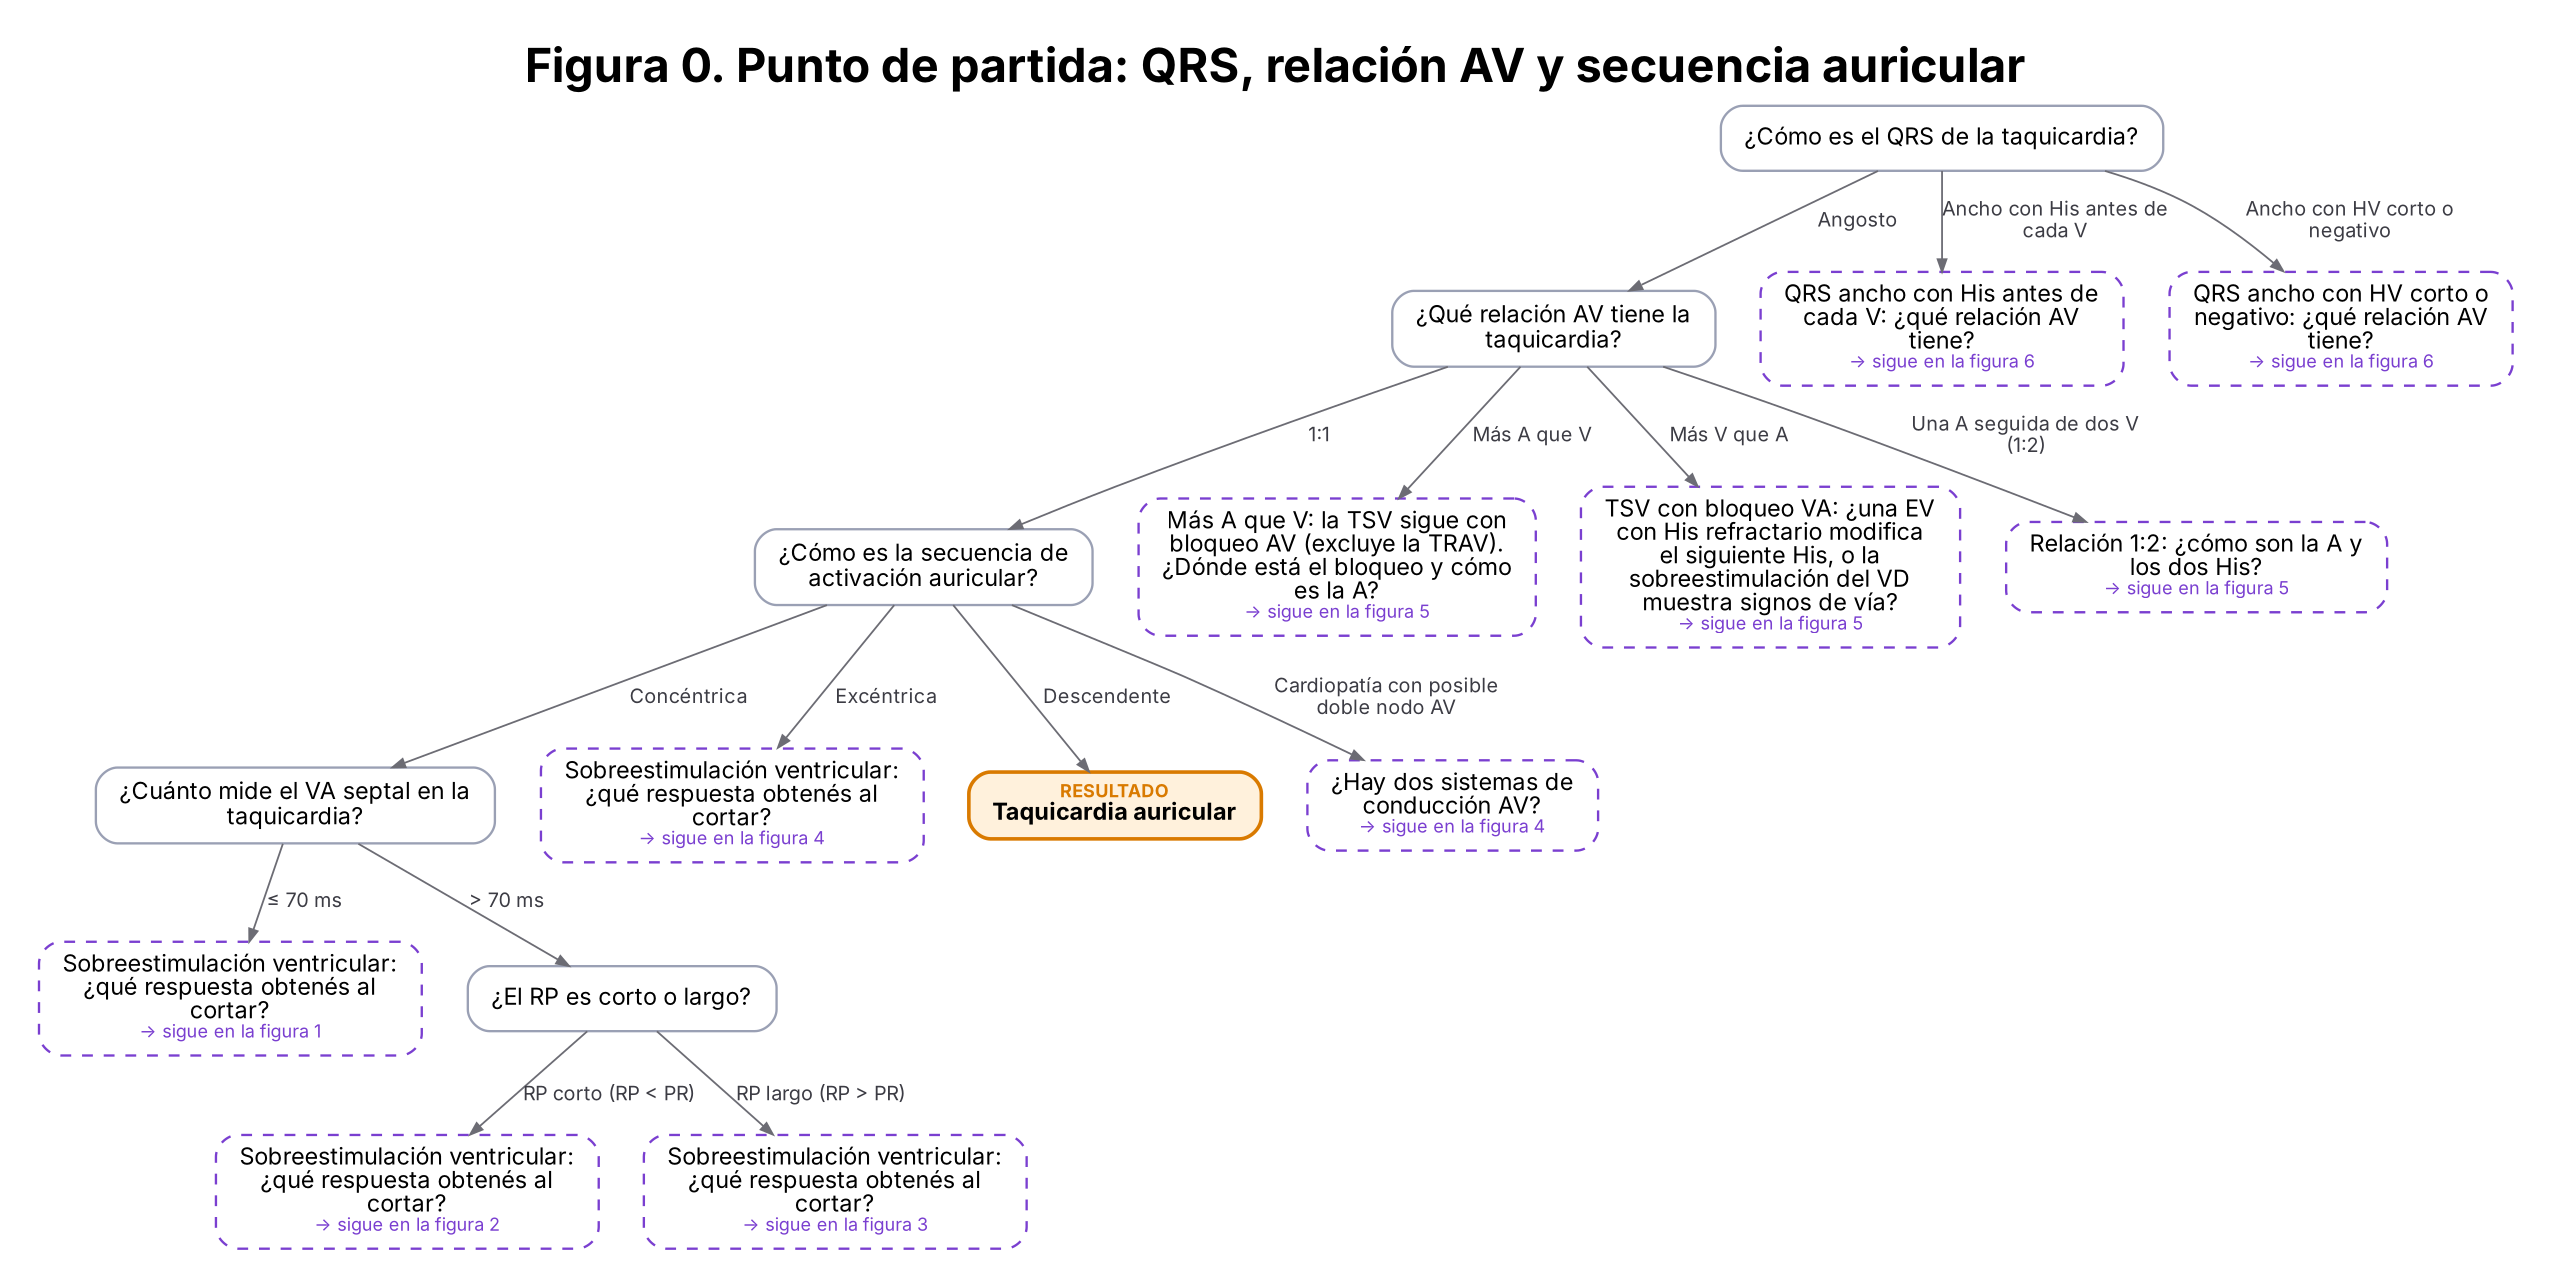
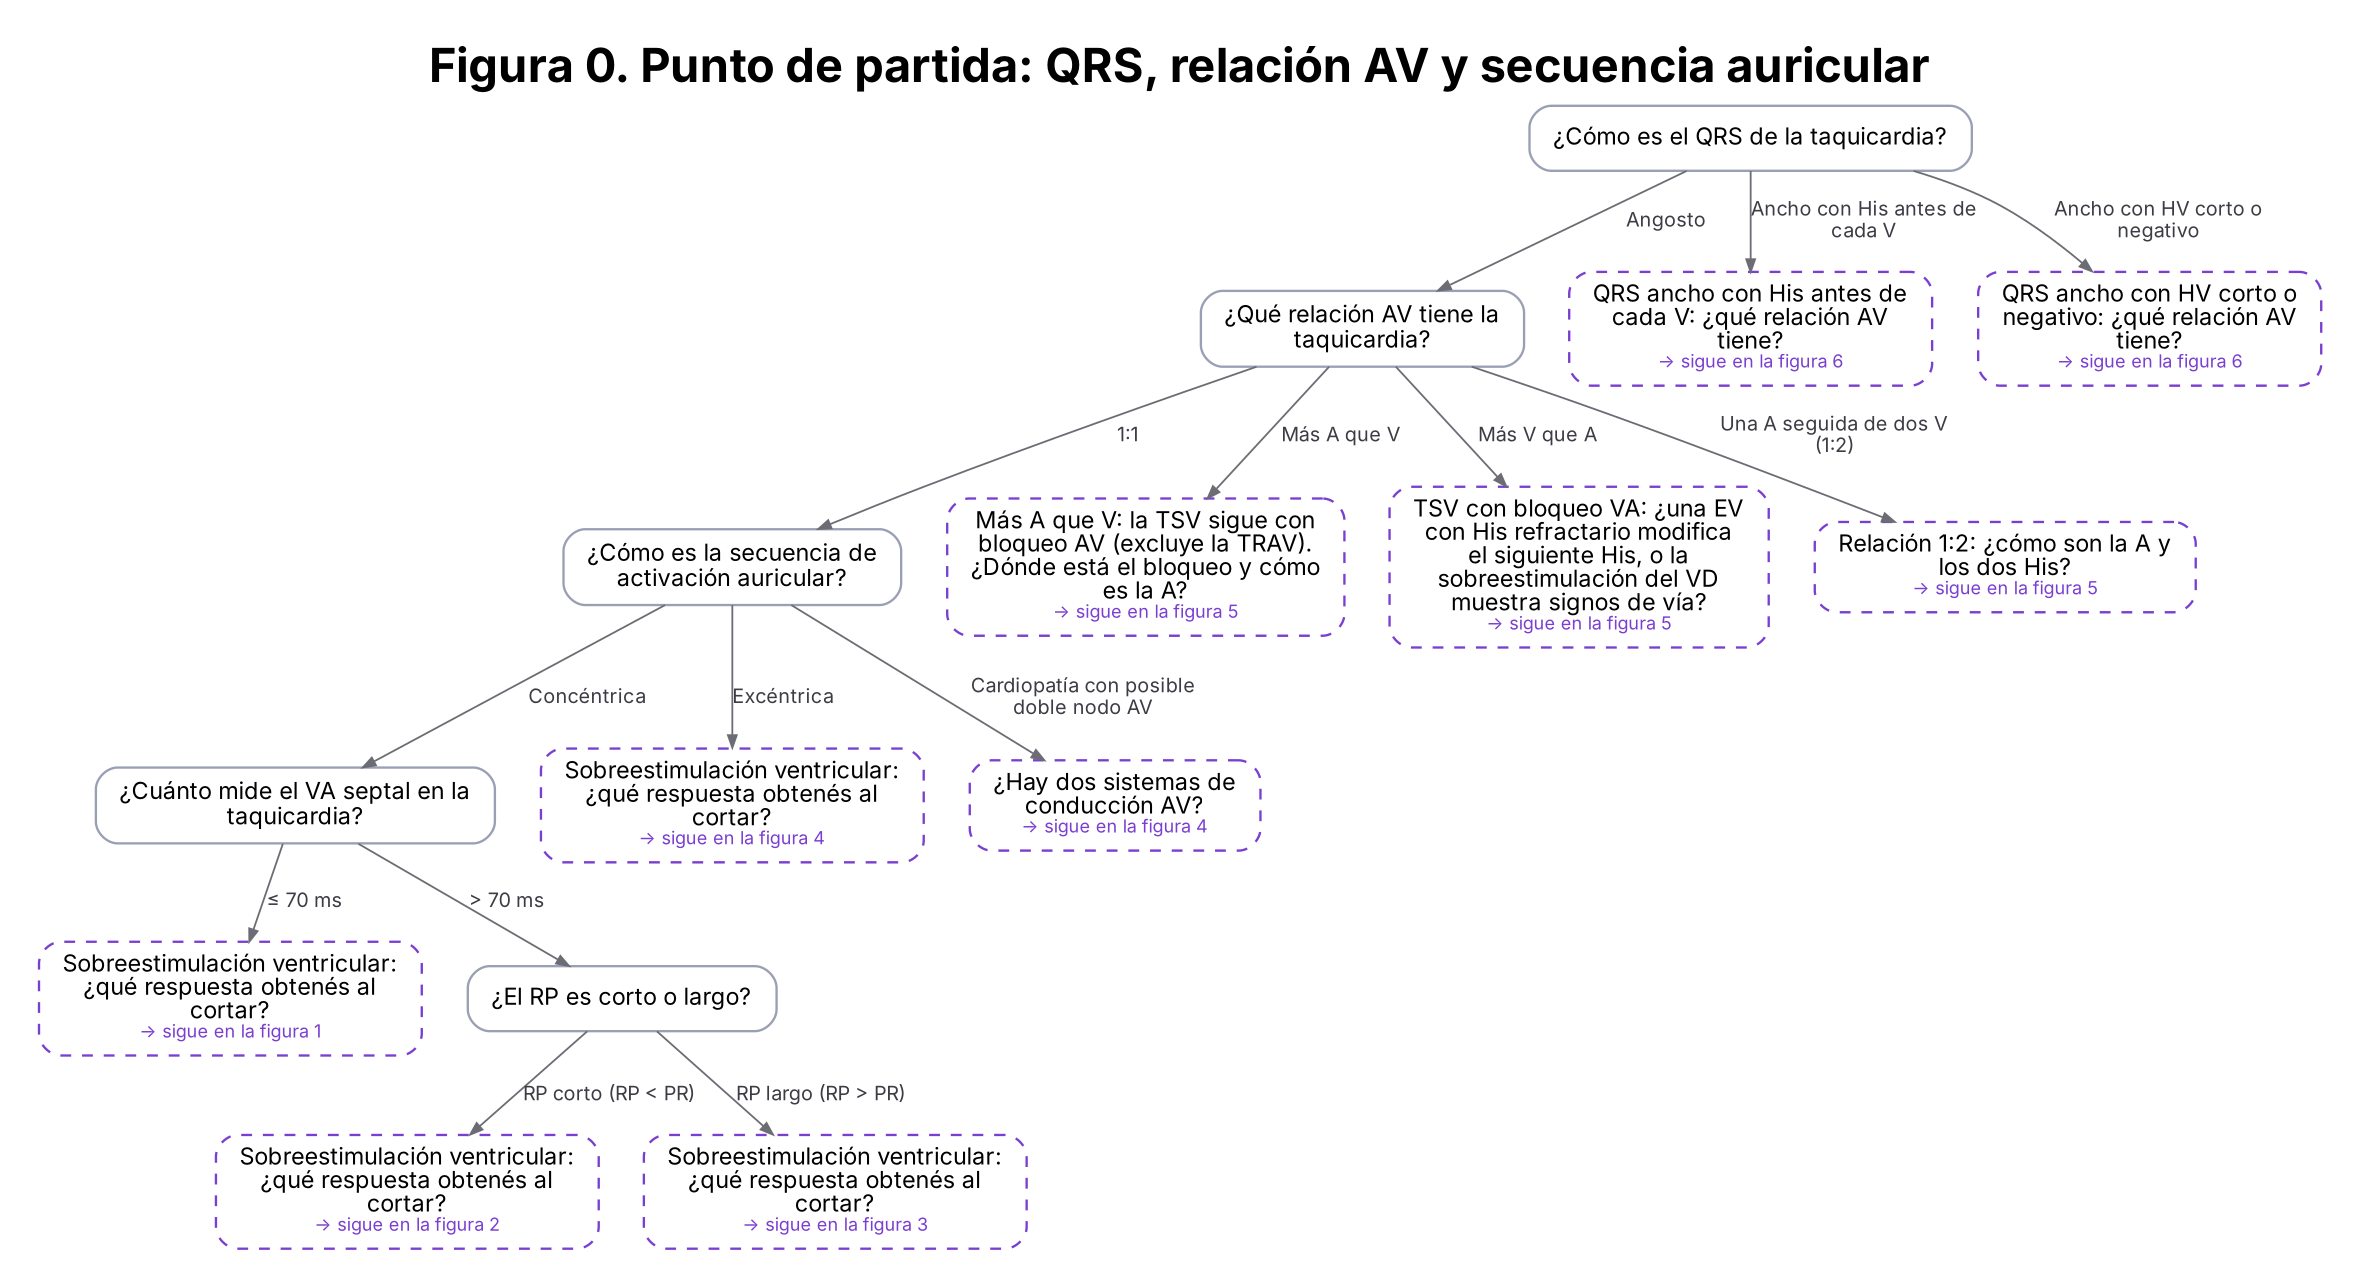
Algoritmo: la secuencia descendente (A más precoz alta) pasa a la rama excéntrica; la maniobra define vía anteroseptal/anterior o TA
Claude-Session: https://claude.ai/code/session_01Pw5rjt62KK5LeJZoEyFiaM

diff --git a/index.html b/index.html
@@ -405,7 +405,7 @@ dialog::backdrop{background:rgba(0,0,0,.45)}
 <div id="visor" hidden role="dialog" aria-label="Imagen ampliada"><div class="vbar"><button type="button" class="vm" aria-label="Achicar">−</button><button type="button" class="vp" aria-label="Agrandar">+</button><button type="button" class="vf">Ajustar</button><button type="button" class="vx">✕ Cerrar</button></div><div class="vbox"><img alt="Imagen ampliada"></div></div>
 <script src="anim-index.js"></script>
 <script>
-const APPV = 234;   // igual al número de CACHE_VERSION de sw.js
+const APPV = 235;   // igual al número de CACHE_VERSION de sw.js
 try { document.getElementById('verPie').textContent = 'versión ' + APPV; } catch (e) {}
 // ===============================================================================================================
 // Referencias. "propia" = artículo del material base; las demás se citan a través de esas revisiones.
@@ -1960,8 +1960,7 @@ const N = {
 
   seq: { q: '¿Cómo es la secuencia de activación auricular?', man: ['basal'], opts: [
     { t: 'Concéntrica', s: 'Más precoz en el His o el SC proximal', go: 'vasep' },
-    { t: 'Excéntrica', s: 'Más precoz en el SC distal o medio, o en la pared libre derecha', go: 'vop_e' },
-    { t: 'Descendente', s: 'Alta → baja, como el sinusal', go: 'L_atdesc' },
+    { t: 'Excéntrica', s: 'Más precoz en el SC distal o medio, en la pared libre derecha, o en la AD alta (alta → baja, P positiva en las inferiores)', go: 'vop_e' },
     { t: 'Cardiopatía con posible doble nodo AV', s: 'Heterotaxia, TCGA o canal AV malalineado', go: 'twin1' }] },
   twin1: { q: '¿Hay dos sistemas de conducción AV?', help: 'Mapeá los dos His y estimulá la aurícula desde distintos sitios. Una sola morfología de QRS no los descarta, sobre todo después de cerrar una CIV.', man: ['twin'], opts: [
     { t: 'Sí: dos His separados, cada uno antes de un QRS distinto, con conducción decremental por los dos', go: 'twin2' },
@@ -2047,9 +2046,9 @@ const N = {
     { t: 'Ninguna es concluyente', go: 'L_jetind' }] },
 
   // ---------- excéntrica
-  vop_e: { q: 'Sobreestimulación ventricular: ¿qué respuesta obtenés al cortar?', help: 'Secuencia excéntrica: TRAV por vía libre o TA. La TRNAV con salida auricular izquierda existe pero es rara.', man: ['vop'], opts: VOP_OPTS('P_avrt_free', 'e') },
-  P_avrt_free: { pre: true, q: 'Diagnóstico más probable: TRAV por vía libre', dx: 'TRAV por vía libre',
-    why: ['Activación auricular excéntrica: TRAV por vía libre o TA (la TRNAV con salida auricular izquierda es rara).', 'Respuesta A-V a la sobreestimulación ventricular: excluye la TA.'],
+  vop_e: { q: 'Sobreestimulación ventricular: ¿qué respuesta obtenés al cortar?', help: 'Secuencia excéntrica: TRAV por vía libre o TA. La TRNAV con salida auricular izquierda existe pero es rara. Si la A más precoz está en la AD alta, pensá en una TA alta, pero también en una vía anteroseptal o anterior derecha (inserción en la parte superior del anillo tricuspídeo): con pocos catéteres puede parecer descendente. La maniobra lo define.', man: ['vop'], opts: VOP_OPTS('P_avrt_free', 'e') },
+  P_avrt_free: { pre: true, q: 'Diagnóstico más probable: TRAV por vía libre', dx: 'TRAV por vía libre', sub: 'O por una vía anteroseptal o anterior derecha si la A más precoz era alta',
+    why: ['Activación auricular excéntrica: TRAV por vía libre o TA (la TRNAV con salida auricular izquierda es rara). Con la A más precoz alta y P positiva en las inferiores, la vía suele ser anteroseptal o anterior derecha.', 'Respuesta A-V a la sobreestimulación ventricular: excluye la TA.'],
     alt: 'Secuencia excéntrica dudosa, más de una vía, o sospecha de una vía espectadora (por ejemplo, conducción VA excéntrica en sinusal pero TSV concéntrica): confirmá que la vía participa con la EV con His refractario.',
     opts: [{ t: 'Lo tomo como diagnóstico más probable', go: 'L_avrt_free' }, { t: 'Sigo sospechando otro mecanismo', s: 'Por el contexto del paciente o un hallazgo que no cierra: te sugiero qué maniobras hacer', go: 'ecc2' }] },
   ecc2: { q: '¿La EV con His refractario modifica la A?', help: 'Estimulá lo más cerca posible de la A más precoz: VI basal por una rama del SC si la vía es izquierda.', man: ['ehr', 'diff'], opts: [

diff --git a/sw.js b/sw.js
@@ -1,6 +1,6 @@
 // Permite instalar la app y abrirla sin conexión. Primero la red (siempre lo último publicado); si no hay, la copia.
 // Si cambiás un archivo, subí CACHE_VERSION.
-const CACHE_VERSION = 'mef-v234';
+const CACHE_VERSION = 'mef-v235';
 const ARCHIVOS = ['./', './index.html', './anim.js', './anim-index.js', './manifest.json', './offline.json', './iconos/icon-192.png', './iconos/icon-512.png', './iconos/apple-touch-icon.png'];
 // 'mef-imagenes' guarda las imágenes que el usuario descargó para usar sin conexión: no se borra al actualizar.
 self.addEventListener('install', e => e.waitUntil(caches.open(CACHE_VERSION).then(c => c.addAll(ARCHIVOS)).then(() => self.skipWaiting())));
